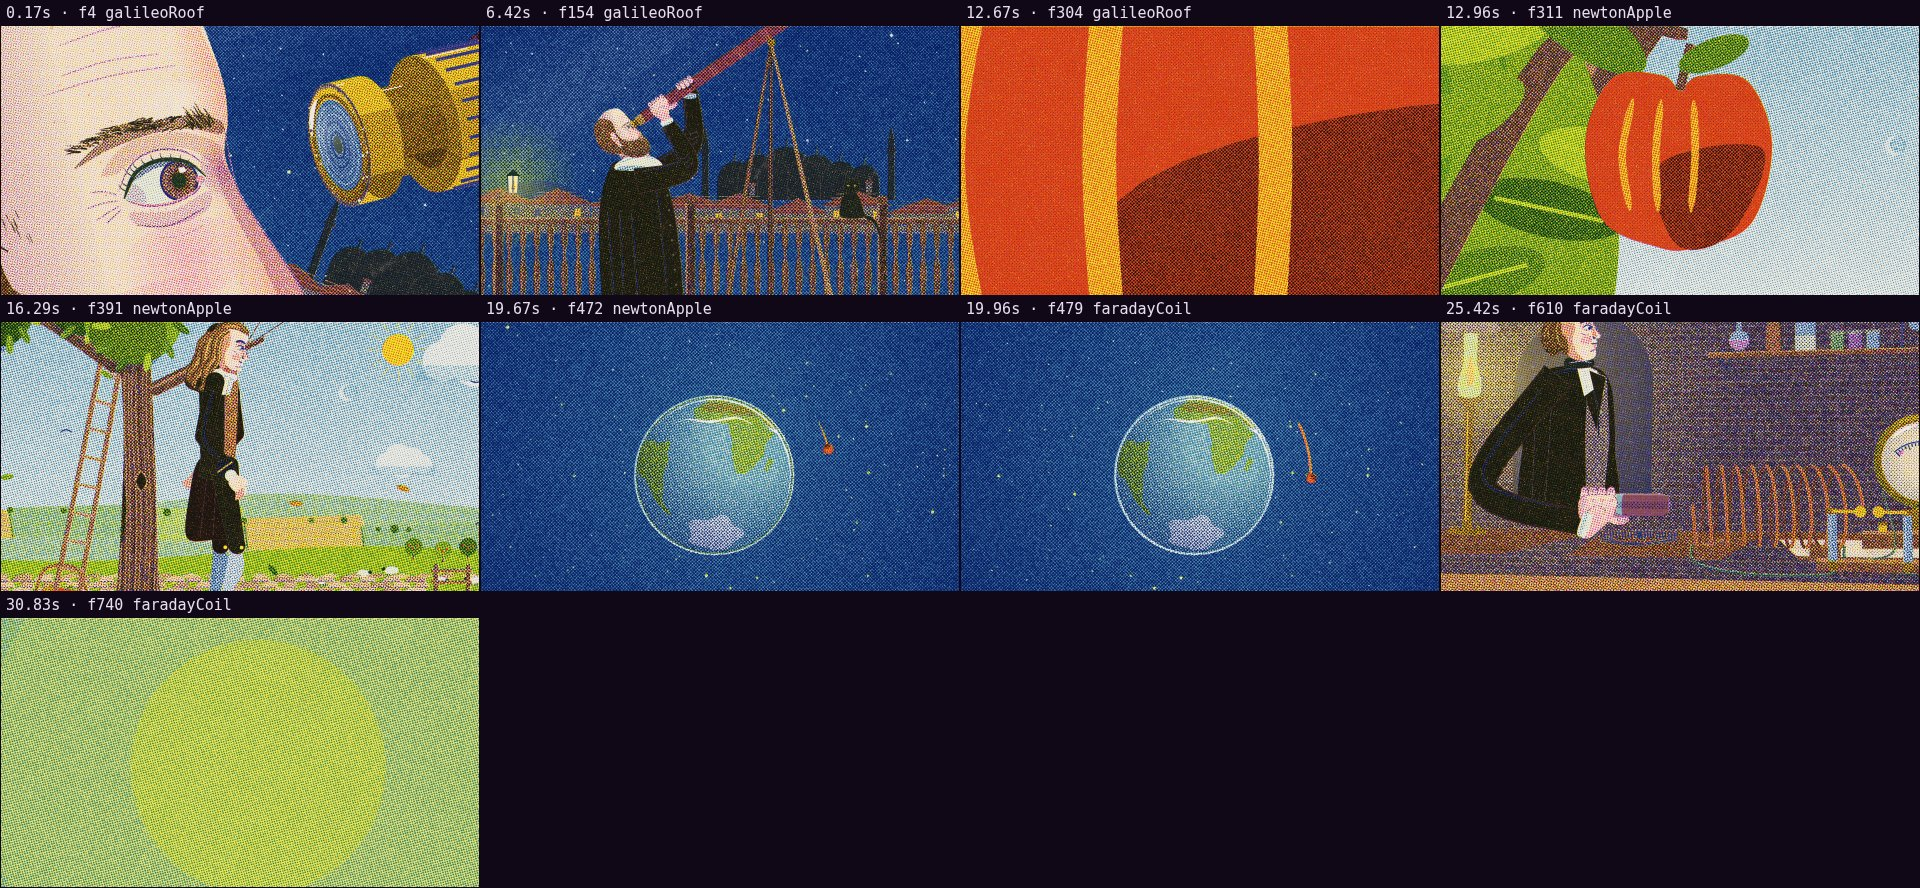
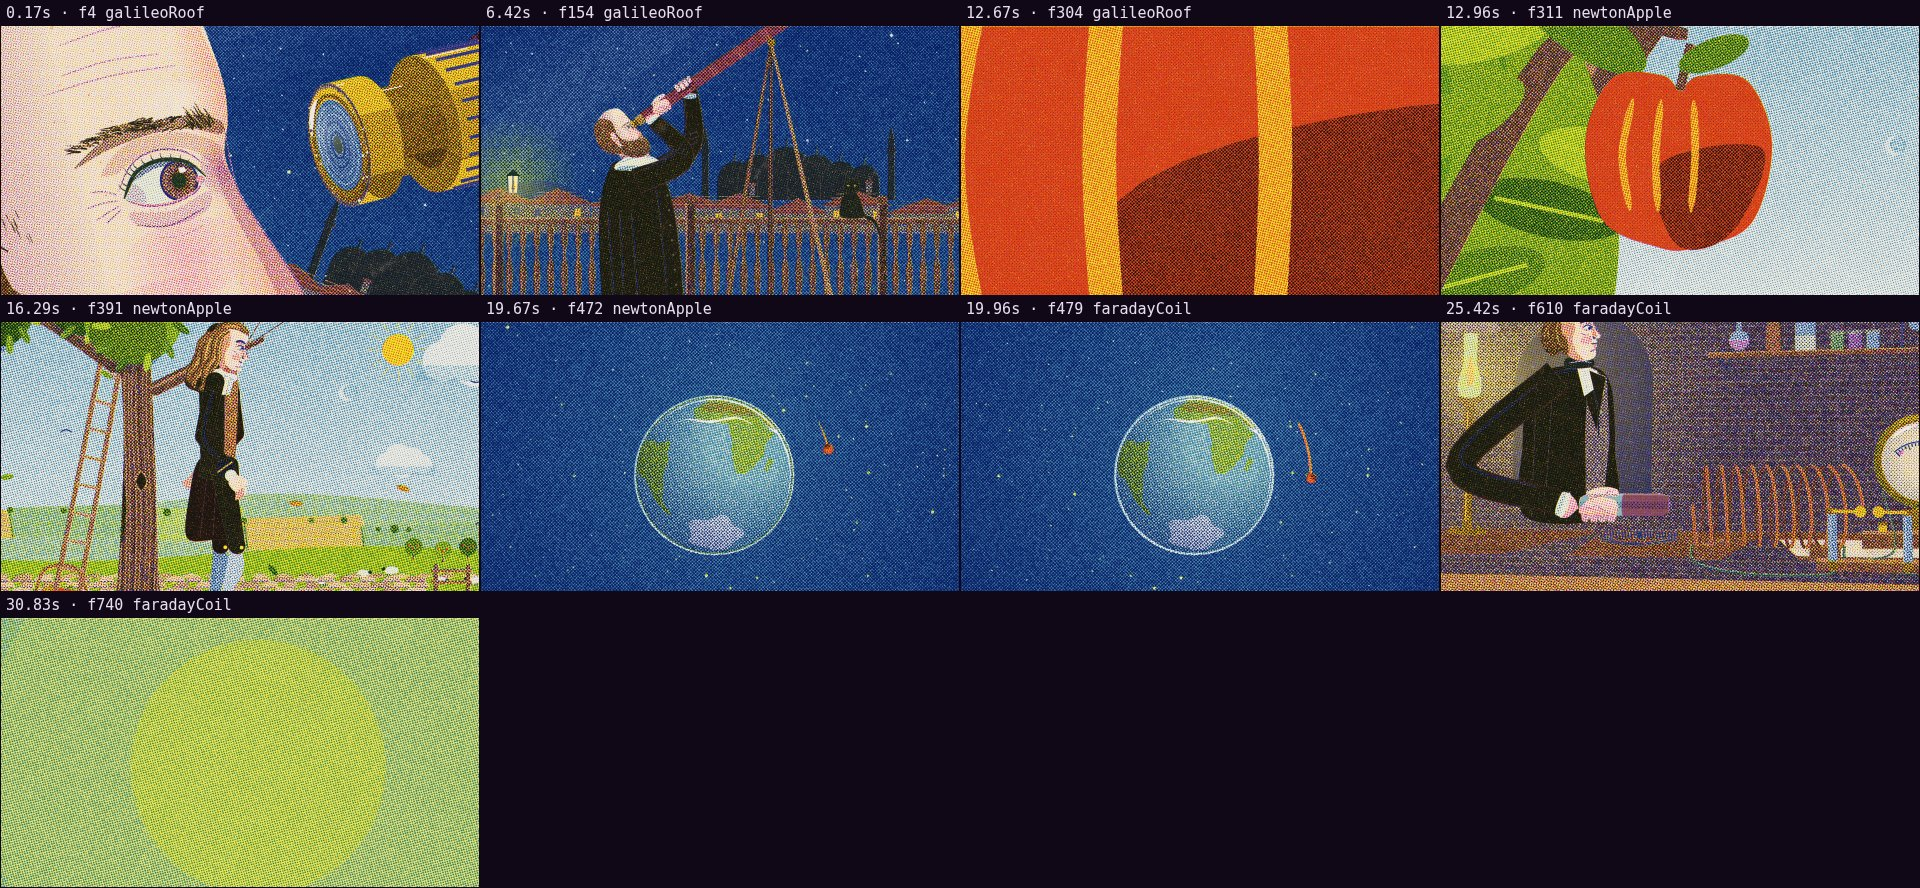
review(physics-history): round 16 · contact sheets with Faraday and the fixed hands
Claude-Session: https://claude.ai/code/session_01FbC8jfwG91neyKwZD6gkGH

Changed region(s): [[0.75, 0.4257, 0.8438, 0.6081], [0.3125, 0.0912, 0.375, 0.2128]]

diff --git a/sandbox/2026-09-25-physics-history/dev/faraday/review/auto.md b/sandbox/2026-09-25-physics-history/dev/faraday/review/auto.md
@@ -1,0 +1,30 @@
+# Automatic review · sandbox/2026-09-25-physics-history/dev/faraday/scene.js
+
+960×540 px · 24 fps · 11.20 s · 269 frames
+
+## Warnings
+
+- None.
+
+## Motion
+
+Energy per second (how much the image changes):
+
+```
+▂▄▄▃█▅▃▂▂▃▆▁
+0    5    10   
+```
+
+No still stretches of 1 s or more.
+
+Large jumps outside cuts (can be normal in dense patterns; check whether they bother): 4.17 s, 4.33 s, 4.50 s, 4.67 s, 10.67 s.
+
+## Speed
+
+Painting: 509 ms/frame cold, 414 ms warm → full render ≈ 111 s at this size.
+
+> Slow: cache static elements with `Motion.sprite` and lower the texture density.
+
+## Contact sheet
+
+![sheet](sheet.jpg)

diff --git a/sandbox/2026-09-25-physics-history/dev/v2/review/auto.md b/sandbox/2026-09-25-physics-history/dev/v2/review/auto.md
@@ -11,7 +11,7 @@
 Energy per second (how much the image changes):
 
 ```
-▃▆▄█▅▂▃█▅▁▃▄▇▄▆▅▇▇▇▄▂▄▄▅▇▆▃▂▂▄▇
+▃▆▄█▅▂▃█▆▁▃▄▇▄▆▅▇▇▇▄▂▄▄▆█▆▃▂▂▄▇
 0    5    10   15   20   25   30   
 ```
 
@@ -21,9 +21,7 @@ Large jumps outside cuts (can be normal in dense patterns; check whether they bo
 
 ## Speed
 
-Painting: 439 ms/frame cold, 403 ms warm → full render ≈ 300 s at this size.
-
-> Slow: cache static elements with `Motion.sprite` and lower the texture density.
+Painting: 407 ms/frame cold, 383 ms warm → full render ≈ 285 s at this size.
 
 ## Contact sheet
 
